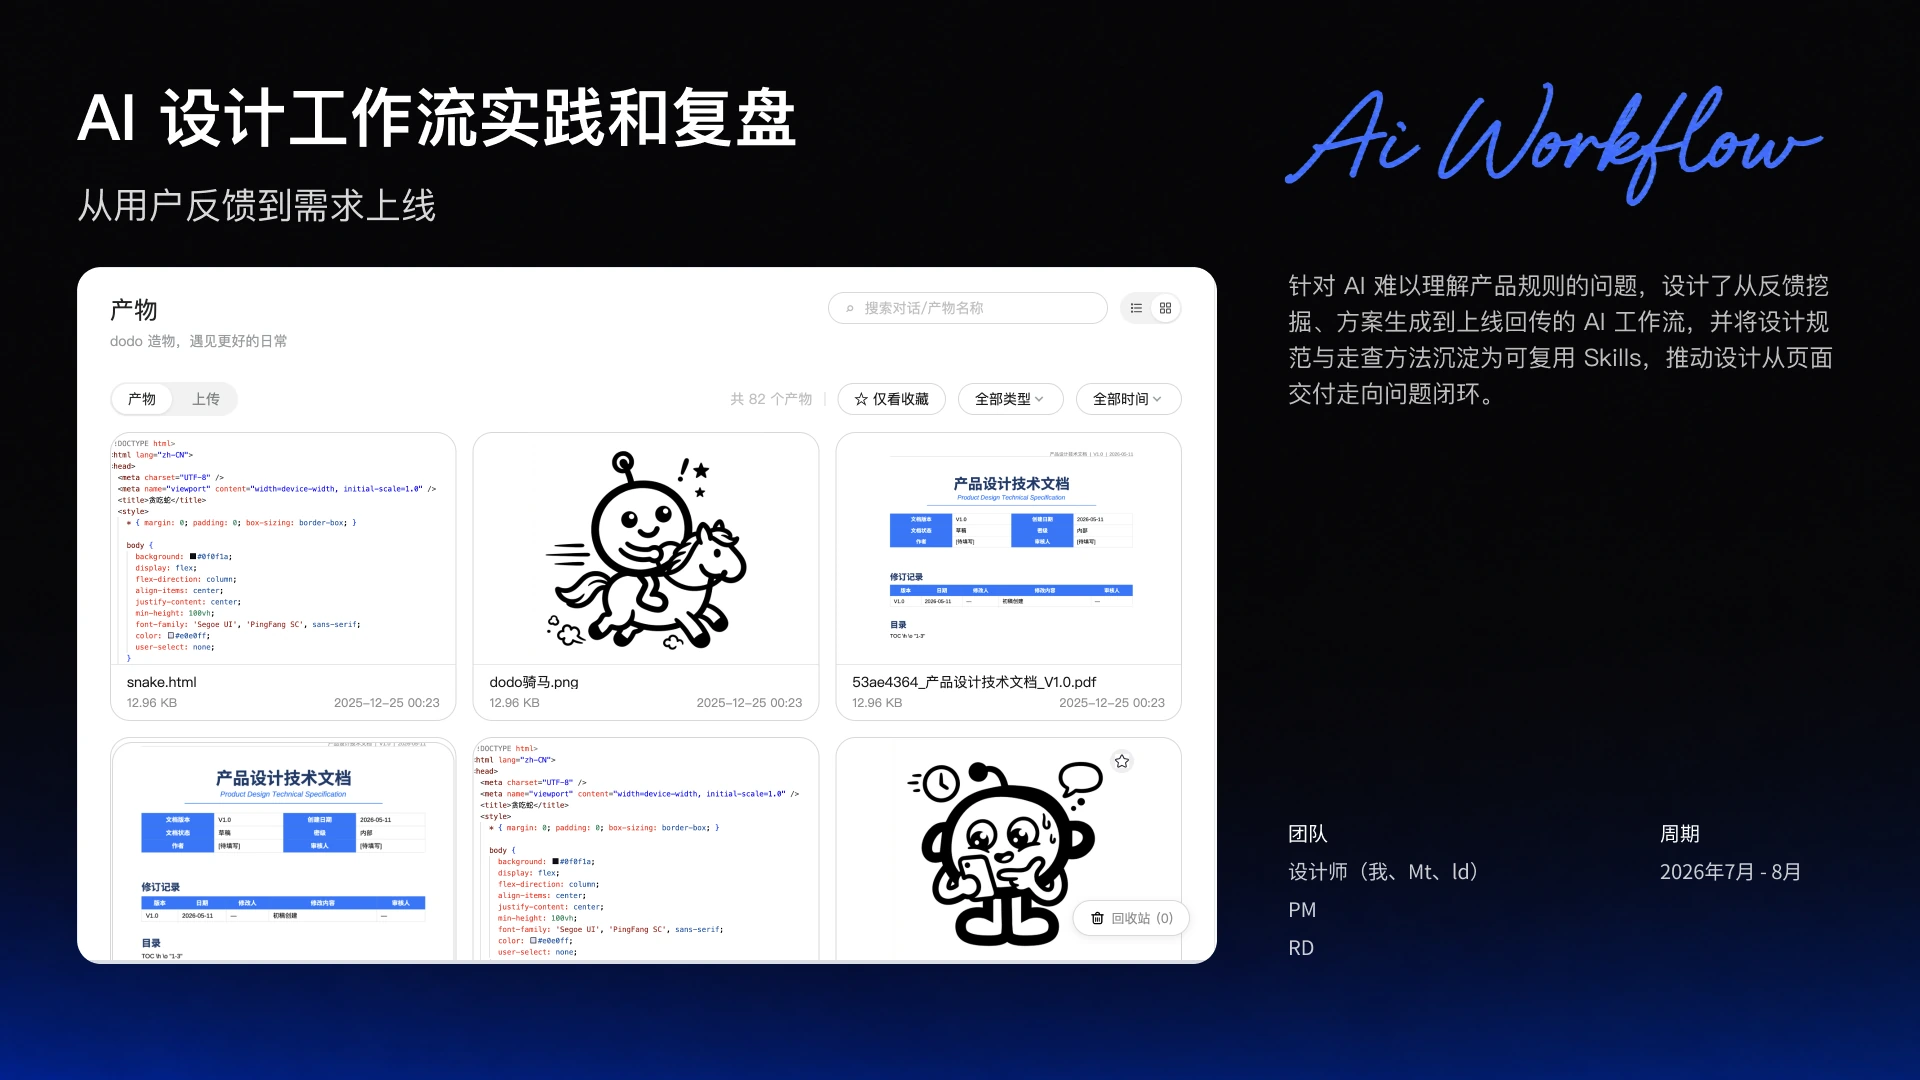
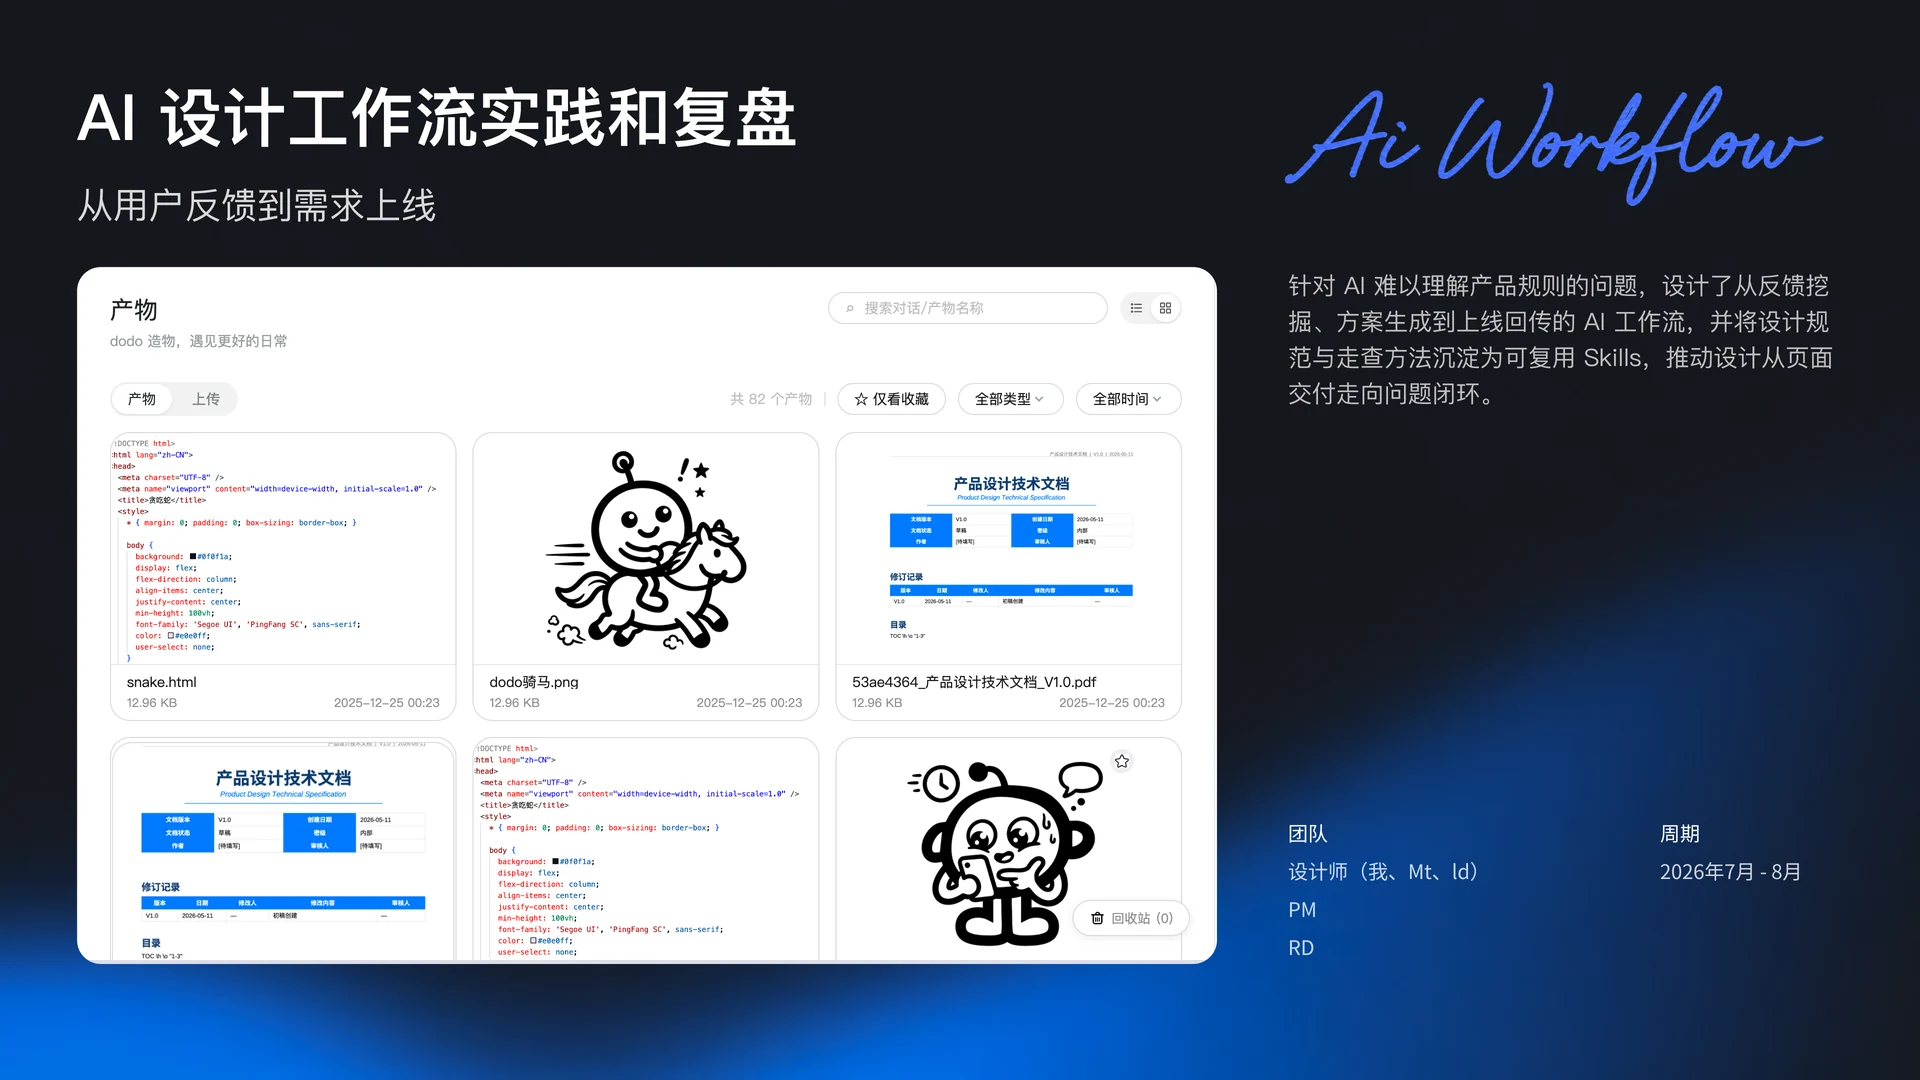
修正 DODO 首屏蒙版圆角和覆盖范围

diff --git a/pages/dodo.html b/pages/dodo.html
@@ -12,7 +12,8 @@
     <style>
       .dodo-cover-slide{position:relative;aspect-ratio:16/9;overflow:hidden;background:#080b16}
       .dodo-cover-slide>img{display:block;width:100%;height:100%;object-fit:cover;pointer-events:none}
-      .dodo-cover-demo{position:absolute;z-index:3;left:4.0104%;top:24.7222%;width:59.375%;height:64.537%;overflow:hidden;border:0;border-radius:24px;background:#fff;box-shadow:none;}
+      /* Match the rounded panel baked into page-01.webp at every deck width. */
+      .dodo-cover-demo{position:absolute;z-index:3;left:4.0104%;top:24.7222%;width:59.375%;height:calc(64.537% + 2px);overflow:hidden;border:0;border-radius:1.4% / 2.3%;background:#fff;box-shadow:none;}
       .dodo-cover-demo iframe{display:block;width:100%;height:100%;border:0;border-radius:0;background:#fff;pointer-events:auto}
       .dodo-download-slide{position:relative;aspect-ratio:16/9;overflow:hidden}
       .dodo-download-link{position:absolute;left:85.31%;top:7.4%;width:10.55%;height:5.25%;z-index:2;display:flex;align-items:center;justify-content:center;gap:clamp(5px,.48vw,9px);overflow:hidden;border-radius:999px;background:#5180f9;color:#fff;text-decoration:none;cursor:pointer}
@@ -22,7 +23,7 @@
       .dodo-process-panel{position:absolute;left:4.17%;top:30.75%;width:53.9%;height:69.25%;z-index:1;display:grid;place-items:center;overflow:hidden;border:0;border-radius:0;background:#151923;box-shadow:none}
       .dodo-process-media{display:block;max-width:100%;max-height:100%;width:auto;height:auto;object-fit:contain}
       .dodo-process-label{position:absolute;left:14px;top:12px;z-index:2;padding:5px 8px;border-radius:5px;background:rgba(10,13,21,.72);color:#fff;font-size:11px;letter-spacing:.04em;pointer-events:none}
-      @media(max-width:700px){.dodo-cover-demo{left:4%;top:24.7%;width:59.4%;height:64.6%;border-radius:12px}.dodo-cover-demo iframe{border-radius:0}.dodo-download-link{left:auto;right:4%;top:7.4%;width:auto;min-width:84px;max-width:44%;height:clamp(28px,8vw,42px);padding:0 10px;gap:6px}.dodo-download-link::before{width:14px;height:14px}.dodo-download-link::after{font-size:clamp(11px,3.2vw,16px)}.dodo-process-panel{left:4%;top:30.75%;width:56%;height:69.25%;border-radius:0}.dodo-process-label{left:7px;top:7px;padding:4px 6px;font-size:9px}}
+      @media(max-width:700px){.dodo-cover-demo{left:4%;top:24.7%;width:59.4%;height:calc(64.6% + 1px);border-radius:1.4% / 2.3%}.dodo-cover-demo iframe{border-radius:0}.dodo-download-link{left:auto;right:4%;top:7.4%;width:auto;min-width:84px;max-width:44%;height:clamp(28px,8vw,42px);padding:0 10px;gap:6px}.dodo-download-link::before{width:14px;height:14px}.dodo-download-link::after{font-size:clamp(11px,3.2vw,16px)}.dodo-process-panel{left:4%;top:30.75%;width:56%;height:69.25%;border-radius:0}.dodo-process-label{left:7px;top:7px;padding:4px 6px;font-size:9px}}
     </style>
     <link rel="stylesheet" href="../styles/responsive-system.css?v=20260905-1" />
   </head>
@@ -35,7 +36,7 @@
     <main id="top">
       <section class="slides" aria-label="AI 设计工作流实践与复盘项目案例">
         <div id="dodo-slide-1" class="case-slide-frame dodo-cover-slide" aria-label="AI 设计工作流实践与复盘项目概览">
-          <img src="../assets/dodo/pages/page-01.webp" alt="AI 设计工作流实践与复盘项目概览" width="1920" height="1080" fetchpriority="high" decoding="async" />
+          <img src="../assets/dodo/pages/page-01.webp?v=20260921-01" alt="AI 设计工作流实践与复盘项目概览" width="1920" height="1080" fetchpriority="high" decoding="async" />
           <div class="dodo-cover-demo">
             <iframe title="Dodo 资产与回收站聚焦交互 Demo" src="../demos/dodo/recycle-demo/index.html"></iframe>
           </div>
